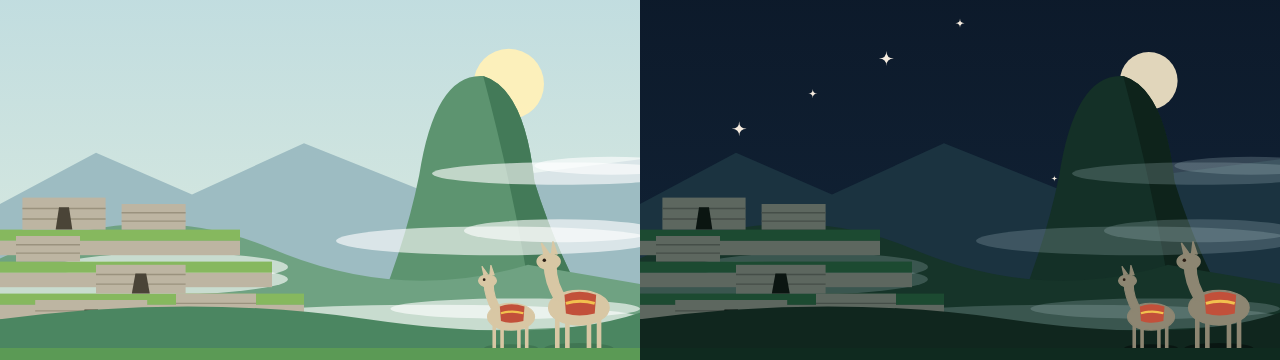
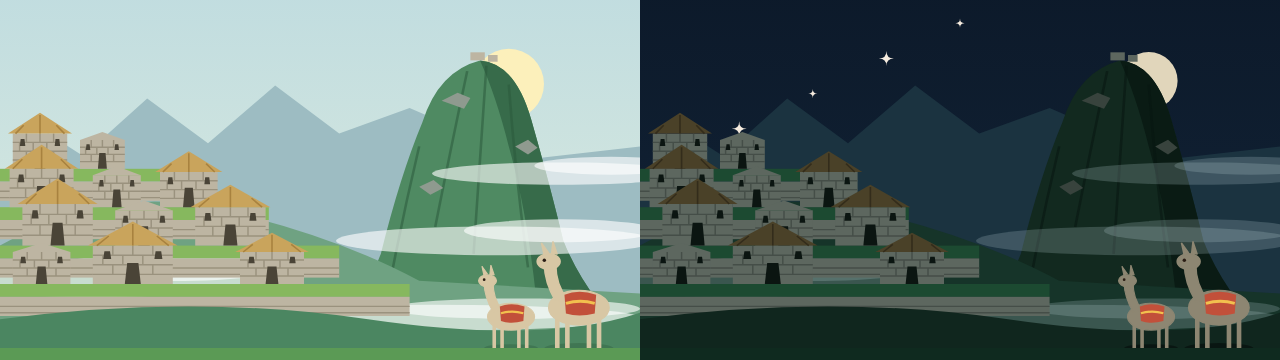
Machu Picchu: a stone city on the terraces and a steeper peak
Stone houses with thatched roofs, doors and niches, some left as walls; a
steeper peak with grooves, rock and a small ruin on top, squeezed to fit the
visible band. Version 0.1.1, previews and README updated.

Claude-Session: https://claude.ai/code/session_019US2goxb2CZvYb6cmmJ8B8

Changed region(s): [[0.0, 0.1528, 0.8438, 0.8861], [0.8438, 0.1528, 0.9375, 0.6722], [0.9062, 0.6722, 0.9688, 0.825]]

diff --git a/plugins/machu-picchu-theme/hooks/register.tsx b/plugins/machu-picchu-theme/hooks/register.tsx
@@ -40,19 +40,38 @@ const { theme, problems } = makeColors({
 // left edge and the llamas at the right, outside the middle where the chat panel usually is.
 const G = 505
 
-// A stone wall, drawn as a long low block with a few darker courses, and a trapezoid doorway like the Inca ones.
-const wall = (x: number, y: number, width: number, height: number, door: boolean): string =>
-  [
-    `<rect class="st" x="${x}" y="${y}" width="${width}" height="${height}"/>`,
-    `<path class="sc" d="M${x} ${y + height * 0.34} H${x + width} M${x} ${y + height * 0.67} H${x + width}" />`,
-    door
-      ? `<path class="dr" d="M${x + width * 0.4} ${y + height} L${x + width * 0.44} ${y + height * 0.3} H${x + width * 0.56} L${x + width * 0.6} ${y + height} Z"/>`
-      : '',
-  ].join('')
+// An Inca stone house standing on a terrace, drawn front-on around its foot at (x, y): fitted stone in courses with
+// staggered joints, a trapezoid doorway and two window niches, and either a steep thatched roof or no roof, as in
+// the houses that are only walls today.
+const house = (x: number, y: number, width: number, height: number, roof: number): string => {
+  const top = y - height
+  const courses = [0.25, 0.5, 0.75]
+  const joints = courses
+    .map((c, i) => {
+      const jy = top + height * c
+      const step = width / 4
 
-// A stepped terrace: a green band with a stone face under it.
-const terrace = (x: number, y: number, width: number): string =>
-  `<rect class="tg" x="${x}" y="${y}" width="${width}" height="7"/><rect class="st" x="${x}" y="${y + 7}" width="${width}" height="9"/>`
+      return Array.from({ length: 3 }, (_, k) => `M${x + step * (k + 1) - (i % 2) * (step / 2)} ${jy - height * 0.25} V${jy}`).join('')
+    })
+    .join('')
+  const door = `M${x + width * 0.4} ${y} L${x + width * 0.43} ${y - height * 0.55} H${x + width * 0.57} L${x + width * 0.6} ${y} Z`
+  const niche = (cx: number): string =>
+    `M${cx - width * 0.05} ${top + height * 0.35} L${cx - width * 0.035} ${top + height * 0.15} H${cx + width * 0.035} L${cx + width * 0.05} ${top + height * 0.35} Z`
+
+  return [
+    `<rect class="st" x="${x}" y="${top}" width="${width}" height="${height}"/>`,
+    `<path class="sc" d="M${x} ${top + height * 0.25} H${x + width} M${x} ${top + height * 0.5} H${x + width} M${x} ${top + height * 0.75} H${x + width}${joints}"/>`,
+    `<path class="dr" d="${door}"/>`,
+    `<path class="dr" d="${niche(x + width * 0.18)}${niche(x + width * 0.82)}"/>`,
+    roof > 0
+      ? `<path class="rf" d="M${x - 3} ${top} L${x + width / 2} ${top - roof} L${x + width + 3} ${top} Z"/><path class="rl" d="M${x + width * 0.2} ${top - roof * 0.4} L${x + width * 0.05} ${top} M${x + width * 0.5} ${top - roof * 0.9} V${top} M${x + width * 0.8} ${top - roof * 0.4} L${x + width * 0.95} ${top}"/>`
+      : `<path class="st" d="M${x} ${top} L${x + width * 0.5} ${top - height * 0.28} L${x + width} ${top} Z"/>`,
+  ].join('')
+}
+
+// A stepped terrace: a green band with its stone retaining wall under it, from the left edge to x + width.
+const terrace = (y: number, width: number): string =>
+  `<rect class="tg" x="0" y="${y}" width="${width}" height="8"/><rect class="st" x="0" y="${y + 8}" width="${width}" height="12"/><path class="sc" d="M0 ${y + 14} H${width} M0 ${y + 18} H${width}"/>`
 
 // A llama standing in profile, facing left, around (0, 0) at its feet.
 const llama = (x: number, scale: number): string =>
@@ -101,7 +120,7 @@ const SCENE = [
   '</defs>',
   '<style>',
   '.night{display:none}',
-  '.far{fill:#9dbcc2}.mid{fill:#6fa282}.near{fill:#4b8661}.peak{fill:#5d9470}.pk-shade{fill:#437a58}',
+  '.far{fill:#9dbcc2}.mid{fill:#6fa282}.near{fill:#4b8661}.peak{fill:#4f8a62}.pk-shade{fill:#376b4a}.gr{stroke:#2c5a3d;stroke-width:1.6;fill:none;opacity:.55}.rk{fill:#8f9a8f}.rf{fill:#c9a45c}.rl{stroke:#a8823f;stroke-width:1;fill:none}',
   '.gnd{fill:#5b9a55}',
   '.st{fill:#bdb5a2}.sc{stroke:#9a927e;stroke-width:.9;fill:none}.dr{fill:#4a4437}',
   '.tg{fill:#86b85e}',
@@ -112,7 +131,7 @@ const SCENE = [
   '.s{fill:#f6ecdf;animation-name:tw;animation-timing-function:ease-in-out;animation-iteration-count:infinite}',
   '@keyframes tw{0%,100%{opacity:.15}50%{opacity:1}}',
   // At night the ridges are deep blue-green, the stone is cool, and the mist is thin and pale.
-  '@media (prefers-color-scheme:dark){.day{display:none}.night{display:inline}.far{fill:#1b3340}.mid{fill:#163429}.near{fill:#10261e}.peak{fill:#143027}.pk-shade{fill:#0e231b}.gnd{fill:#0f2a1f}.st{fill:#5d675f}.sc{stroke:#454e48}.dr{fill:#0b1511}.tg{fill:#1c4a31}.lw{fill:#8d8672;stroke:#8d8672}.ss{fill:#000;opacity:.4}.mi{fill:#b9d0d8;opacity:.22}}',
+  '@media (prefers-color-scheme:dark){.day{display:none}.night{display:inline}.far{fill:#1b3340}.mid{fill:#163429}.near{fill:#10261e}.peak{fill:#12291f}.pk-shade{fill:#0a1b14}.gr{stroke:#071510}.rk{fill:#38433d}.rf{fill:#4a4128}.rl{stroke:#332c1b}.gnd{fill:#0f2a1f}.st{fill:#5d675f}.sc{stroke:#454e48}.dr{fill:#0b1511}.tg{fill:#1c4a31}.lw{fill:#8d8672;stroke:#8d8672}.ss{fill:#000;opacity:.4}.mi{fill:#b9d0d8;opacity:.22}}',
   // Asked to reduce motion, the mist rests and the stars stay still.
   '@media (prefers-reduced-motion:reduce){.m,.s{animation:none}}',
   '</style>',
@@ -120,22 +139,35 @@ const SCENE = [
   '<rect class="night" width="400" height="800" fill="url(#mp-night)"/>',
   `<g class="night">${STARS}<circle cx="318" cy="338" r="18" fill="#f3e6c8" opacity=".92"/></g>`,
   '<circle class="day" cx="318" cy="340" r="22" fill="#fff0b8" opacity=".95"/>',
-  // The far ridges and the great peak behind the ruins (Huayna Picchu stands at the right).
-  `<path class="far" d="M0 ${G - 90} L60 ${G - 122} L120 ${G - 96} L190 ${G - 128} L260 ${G - 100} L400 ${G - 118} L400 ${G} L0 ${G} Z"/>`,
-  `<path class="peak" d="M226 ${G} Q252 ${G - 58} 262 ${G - 108} Q272 ${G - 172} 302 ${G - 170} Q328 ${G - 162} 334 ${G - 104} Q350 ${G - 52} 382 ${G} Z"/>`,
-  `<path class="pk-shade" d="M302 ${G - 170} Q328 ${G - 162} 334 ${G - 104} Q350 ${G - 52} 382 ${G} L336 ${G} Q326 ${G - 80} 302 ${G - 170} Z"/>`,
-  `<path class="mid" d="M0 ${G - 56} Q90 ${G - 96} 170 ${G - 62} T330 ${G - 52} L400 ${G - 40} L400 ${G} L0 ${G} Z"/>`,
+  // The far ridges, the forested ridge, and the great peak behind the ruins (Huayna Picchu stands at the right).
+  `<path class="far" d="M0 ${G - 104} L30 ${G - 134} L52 ${G - 120} L92 ${G - 156} L130 ${G - 128} L172 ${G - 164} L212 ${G - 134} L256 ${G - 150} L330 ${G - 118} L400 ${G - 126} L400 ${G} L0 ${G} Z"/>`,
+  // The peak is drawn tall and squeezed to fit the visible band, with its foot kept on the ground line.
+  `<g transform="translate(0 ${G}) scale(1 0.84) translate(0 ${-G})">`,
+  `<path class="peak" d="M214 ${G} L238 ${G - 70} Q250 ${G - 128} 264 ${G - 168} Q274 ${G - 206} 300 ${G - 214} Q322 ${G - 212} 332 ${G - 170} Q344 ${G - 120} 352 ${G - 80} Q366 ${G - 38} 400 ${G} Z"/>`,
+  `<path class="pk-shade" d="M300 ${G - 214} Q322 ${G - 212} 332 ${G - 170} Q344 ${G - 120} 352 ${G - 80} Q366 ${G - 38} 400 ${G} L338 ${G} Q332 ${G - 92} 318 ${G - 150} Q310 ${G - 188} 300 ${G - 214} Z"/>`,
+  // Steep grooves down the slopes, a few bare rock outcrops and the little ruin on the summit.
+  `<path class="gr" d="M292 ${G - 206} Q282 ${G - 150} 272 ${G - 90} M304 ${G - 210} Q300 ${G - 140} 296 ${G - 70} M318 ${G - 196} Q322 ${G - 130} 330 ${G - 60} M262 ${G - 150} Q252 ${G - 100} 244 ${G - 50}"/>`,
+  `<path class="rk" d="M276 ${G - 184} l10 -6 l8 4 l-4 8 Z M322 ${G - 150} l8 -5 l6 6 l-6 5 Z M262 ${G - 120} l9 -5 l6 6 l-8 5 Z"/>`,
+  `<rect class="st" x="294" y="${G - 220}" width="9" height="6"/><rect class="st" x="305" y="${G - 218}" width="6" height="5"/>`,
+  '</g>',
+  `<path class="mid" d="M0 ${G - 64} Q70 ${G - 104} 140 ${G - 86} Q210 ${G - 70} 262 ${G - 42} L400 ${G - 34} L400 ${G} L0 ${G} Z"/>`,
   MIST,
-  // The ruins climb the left hillside on terraces.
-  terrace(0, G - 74, 150),
-  terrace(0, G - 54, 170),
-  terrace(0, G - 34, 190),
-  wall(14, G - 94, 52, 20, true),
-  wall(76, G - 90, 40, 16, false),
-  wall(10, G - 70, 40, 16, false),
-  wall(60, G - 52, 56, 18, true),
-  wall(22, G - 30, 70, 20, true),
-  wall(110, G - 34, 50, 18, false),
+  // The city climbs the left hillside on four terraces: houses with thatched roofs among others left as walls.
+  terrace(G - 112, 124),
+  house(8, G - 112, 34, 22, 13),
+  house(50, G - 112, 28, 18, 0),
+  terrace(G - 88, 168),
+  house(6, G - 88, 40, 24, 15),
+  house(58, G - 88, 30, 20, 0),
+  house(100, G - 88, 36, 22, 13),
+  terrace(G - 64, 212),
+  house(14, G - 64, 44, 26, 16),
+  house(72, G - 64, 36, 22, 0),
+  house(122, G - 64, 44, 24, 14),
+  terrace(G - 40, 256),
+  house(8, G - 40, 36, 20, 0),
+  house(58, G - 40, 50, 24, 15),
+  house(150, G - 40, 40, 20, 12),
   `<path class="near" d="M0 ${G - 18} Q120 ${G - 34} 230 ${G - 18} T400 ${G - 22} L400 ${G} L0 ${G} Z"/>`,
   llama(360, 0.9),
   llama(318, 0.7),

diff --git a/README.es.md b/README.es.md
@@ -93,7 +93,7 @@ Mods bonitas para Claude Code: cambian cómo se ve y qué muestra. Un aspecto na
 
 | Mod | Qué hace |
 |---|---|
-| `machu-picchu-theme` | Terrazas de piedra y ruinas con puertas trapezoidales en una ladera verde andina, un pico alto, dos llamas con mantas tejidas y una niebla lenta, de día con sol o de noche con estrellas y luna. Sigue tu modo claro u oscuro. La niebla se desplaza y las estrellas parpadean. Las ruinas están en el borde izquierdo y las llamas en el derecho, fuera del centro donde suele estar el panel del chat. |
+| `machu-picchu-theme` | Terrazas de piedra con una ciudad en la ladera de casas de piedra (techos de paja, puertas trapezoidales y nichos, y algunas solo con muros), un pico empinado con una pequeña ruina en la cima, dos llamas con mantas tejidas y una niebla lenta, de día con sol o de noche con estrellas y luna. Sigue tu modo claro u oscuro. La niebla se desplaza y las estrellas parpadean. Las ruinas están en el borde izquierdo y las llamas en el derecho, fuera del centro donde suele estar el panel del chat. |
 | `huacachina-theme` | Dunas de arena alrededor de una pequeña laguna del desierto con palmeras que se mecen, de día con sol o de noche con estrellas y luna. Sigue tu modo claro u oscuro. Las palmeras se mecen un poco, la laguna ondula y las estrellas parpadean. Las palmeras están en los dos bordes. |
 
 ### Música

diff --git a/README.md b/README.md
@@ -93,7 +93,7 @@ Pretty mods for Claude Code: changes to how it looks and what it shows. A Christ
 
 | Mod | What it does |
 |---|---|
-| `machu-picchu-theme` | Stone terraces and ruins with trapezoid doorways on a green Andean hillside, a high peak, two llamas in woven blankets and slow mist, by day with the sun or at night with stars and the moon. It follows your light or dark mode. The mist drifts and the stars twinkle. The ruins stand at the left edge and the llamas at the right, outside the middle where the chat panel usually is. |
+| `machu-picchu-theme` | Stone terraces with a hillside city of stone houses (thatched roofs, trapezoid doors and niches, and some left as walls), a steep peak with a small ruin on top, two llamas in woven blankets and slow mist, by day with the sun or at night with stars and the moon. It follows your light or dark mode. The mist drifts and the stars twinkle. The ruins stand at the left edge and the llamas at the right, outside the middle where the chat panel usually is. |
 | `huacachina-theme` | Sand dunes around a small desert lagoon with swaying palms, by day with the sun or at night with stars and the moon. It follows your light or dark mode. The palms sway a little, the lagoon ripples and the stars twinkle. The palms stand at both edges. |
 
 ### Music
